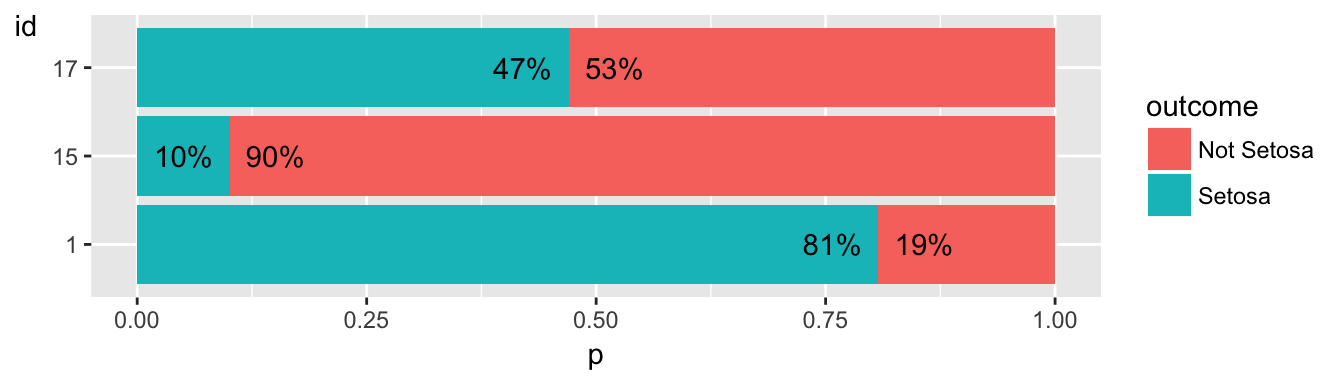
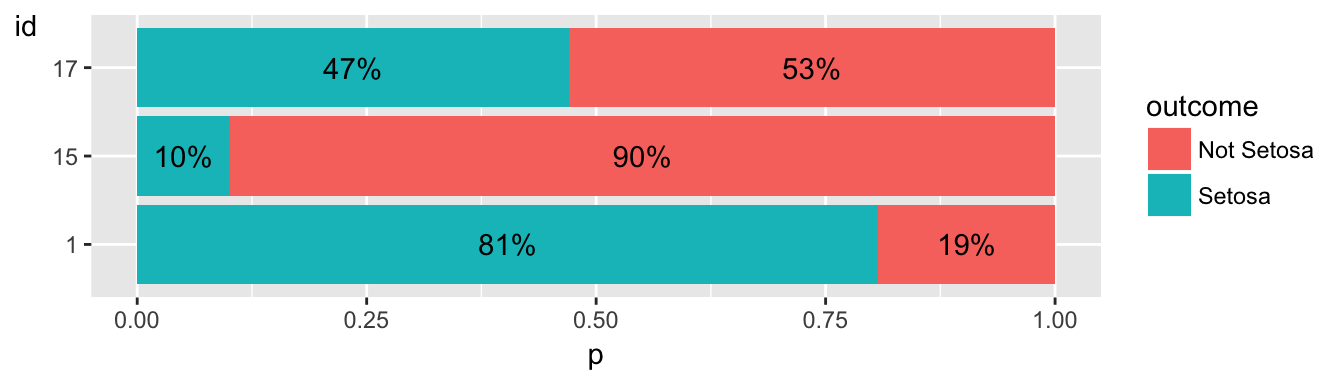
updated visualizing binary prob post

diff --git a/content/post/2017-09-25-visualizing-predicted-probabilty-of-a-binary-outcome.html b/content/post/2017-09-25-visualizing-predicted-probabilty-of-a-binary-outcome.html
@@ -48,14 +48,41 @@ X%&gt;%select(id,prob)</code></pre>
 <div id="alternative" class="section level2">
 <h2>Alternative</h2>
 <p>I think both issues will go away if we also plot the predicted probability of the complementary class (i.e. the negative case).</p>
-<pre class="r"><code>X%&gt;%
+<pre class="r"><code>X2=X%&gt;%
   mutate(Setosa=prob,
          `Not Setosa`=1-prob)%&gt;%
   tidyr::gather(outcome,p,Setosa, `Not Setosa`)%&gt;%
+  group_by(id)%&gt;%
+  mutate(pos=cumsum(p)-p/2,
+         label=sprintf(&quot;%0.0f%%&quot;,p*100))
+
+X2%&gt;%
   ggplot(aes(x=id,y=p,fill=outcome))+
   geom_col()+coord_flip()+
   theme(axis.title.y = element_text(angle=0))</code></pre>
 <p><img src="/post/2017-09-25-visualizing-predicted-probabilty-of-a-binary-outcome_files/figure-html/unnamed-chunk-3-1.png" width="672" /></p>
 <p>And of course it will be even better if we annotate the graph. <img src="/post/2017-09-25-visualizing-predicted-probabilty-of-a-binary-outcome_files/figure-html/unnamed-chunk-4-1.png" width="672" /> Now it is a lot more clearer that the top row is quite uncertain, while the bottom two are quite certain in their own prediction.</p>
 <p>And <a href="//projects.fivethirtyeight.com/2016-election-forecast/" target="_blank">this</a> would be a great example of such plot.</p>
+<div id="update-24-10-2017" class="section level4">
+<h4>update 24-10-2017</h4>
+<p>Instead of a stacked barchart, the usual side-by-side bar chart also works.</p>
+<pre class="r"><code>X2%&gt;%
+  ggplot(aes(x=outcome,y=p,fill=outcome,label=label))+
+  geom_col(position=&quot;dodge&quot;)+
+  facet_wrap(~id)+
+  geom_text(nudge_y=0.1)+
+  theme(axis.title.y = element_text(angle=0))</code></pre>
+<p><img src="/post/2017-09-25-visualizing-predicted-probabilty-of-a-binary-outcome_files/figure-html/unnamed-chunk-5-1.png" width="672" /></p>
+<p>Or even a pie chart (yes, a pie chart).</p>
+<pre class="r"><code>X2%&gt;%
+  ggplot(aes(x=&quot;&quot;,y=p,fill=outcome,label=label))+
+  geom_bar(width=1,stat=&quot;identity&quot;)+
+  geom_text(aes(y=pos))+
+  coord_polar(&quot;y&quot;)+
+  facet_wrap(~id)+
+  ylab(&quot;&quot;)+
+  xlab(&quot;&quot;)+
+  theme(axis.text.x=element_blank())</code></pre>
+<p><img src="/post/2017-09-25-visualizing-predicted-probabilty-of-a-binary-outcome_files/figure-html/unnamed-chunk-6-1.png" width="672" /></p>
+</div>
 </div>
